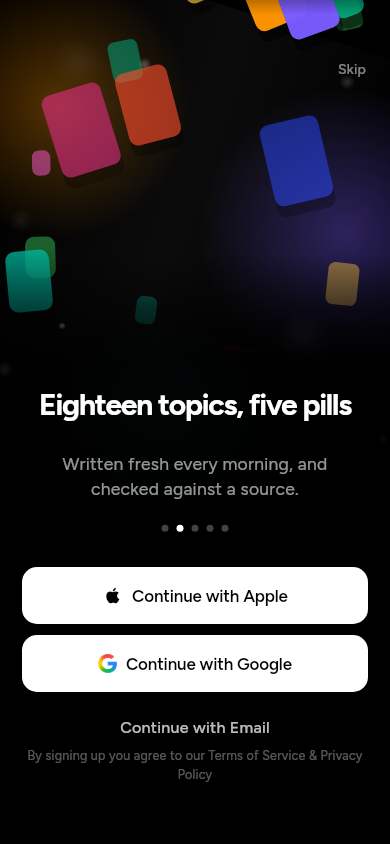
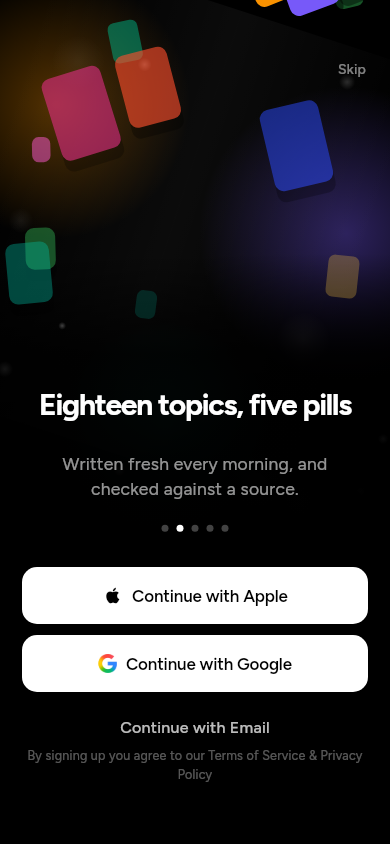
Intro: each falling card fades itself out before the foot of its box
On the phone the cards reached the line their box ends on at a third of
their colour and stopped dead on it, a row of straight edges where the
gradient mask over the box should have taken them to nothing. Whatever
the mask did on the phone, it is gone: each card now fades by where it
is, whole at ninety points above the foot of the box and gone at it, so
no card is ever on the line that clips it. The box reaches further above
the band too, so its top stays off the screen on the tallest phone.

The layout check finds the cards' box by its clip rather than its mask.

Claude-Session: https://claude.ai/code/session_018WEQYcXjm1L52zwKpmdTht

diff --git a/lib/screens/intro_screen.dart b/lib/screens/intro_screen.dart
@@ -901,15 +901,22 @@ class _PopState extends State<_Pop> with SingleTickerProviderStateMixin {
 /// Its box reaches [above] the band, to the top edge of the screen and past
 /// it: a card enters the picture from behind the status bar, whole, rather
 /// than appearing on the line the band starts on — which on a phone with
-/// a notch is a line drawn just under the clock.
+/// a notch is a line drawn just under the clock. At the foot of the box
+/// each card fades itself out before it gets there, so no card is ever cut
+/// on the line the box ends on. A gradient mask over the box did that job
+/// before, and on the phone it did not: the cards reached the line at a
+/// third of their colour and stopped dead on it.
 class _SceneRain extends StatelessWidget {
   const _SceneRain();
 
   /// How far above the band the box reaches, in the band's own units.
-  /// Deeper than a phone's status bar and the sky under it once scaled, so
-  /// the top of the box is off the screen.
-  static const double above = 100;
+  /// Deeper than a phone's status bar and the sky under it once scaled, on
+  /// the tallest phone, so the top of the box is off the screen.
+  static const double above = 130;
   static const double boxHeight = _SceneStage.bandHeight + above;
+
+  /// Over how much of the box's foot a card goes from whole to gone.
+  static const double fadeLength = 90;
 
   static const List<Color> _palette = [
     Color(0xFFFF2E9C),
@@ -935,61 +942,44 @@ class _SceneRain extends StatelessWidget {
         alignment: Alignment.bottomCenter,
         minHeight: boxHeight,
         maxHeight: boxHeight,
-        child: ShaderMask(
-          // Cards leave the picture by fading, not by meeting the bottom
-          // of their box: a row of cards ending on a straight line is the
-          // edge of a container, and there should not be one to see. At
-          // the top they fade in over the part of the box that is off the
-          // screen, so what is on it is whole.
-          blendMode: BlendMode.dstIn,
-          shaderCallback: (rect) => const LinearGradient(
-            begin: Alignment.topCenter,
-            end: Alignment.bottomCenter,
-            colors: [
-              Color(0x00FFFFFF),
-              Color(0xFFFFFFFF),
-              Color(0xFFFFFFFF),
-              Color(0x00FFFFFF),
-            ],
-            stops: [0, 50 / boxHeight, (above + 156) / boxHeight, 1],
-          ).createShader(rect),
-          child: ClipRect(
-            child: Stack(
-              children: [
-                Opacity(
-                  opacity: 0.5,
-                  child: Stack(
-                    children: [
-                      for (int i = 0; i < 10; i++)
-                        _FallingCard(
-                          left: 4 + seeded(i, 33.19) * 88,
-                          width: 16 + seeded(i, 45.11) * 12,
-                          height: 22 + seeded(i, 45.11) * 16,
-                          color: _palette[(i + 2) % _palette.length],
-                          turns: (seeded(i, 78.233) * 40 - 20) / 360,
-                          seconds: 10 + seeded(i, 21.7) * 6,
-                          offset: seeded(i, 9.13) * 14,
-                          opacity: 1,
-                          radius: 6,
-                        ),
-                    ],
-                  ),
+        // Clipped to the box: its top is off the screen, and no card
+        // reaches its foot while it can still be seen.
+        child: ClipRect(
+          child: Stack(
+            children: [
+              Opacity(
+                opacity: 0.5,
+                child: Stack(
+                  children: [
+                    for (int i = 0; i < 10; i++)
+                      _FallingCard(
+                        left: 4 + seeded(i, 33.19) * 88,
+                        width: 16 + seeded(i, 45.11) * 12,
+                        height: 22 + seeded(i, 45.11) * 16,
+                        color: _palette[(i + 2) % _palette.length],
+                        turns: (seeded(i, 78.233) * 40 - 20) / 360,
+                        seconds: 10 + seeded(i, 21.7) * 6,
+                        offset: seeded(i, 9.13) * 14,
+                        opacity: 1,
+                        radius: 6,
+                      ),
+                  ],
                 ),
-                for (int i = 0; i < 18; i++)
-                  _FallingCard(
-                    left: 2 + seeded(i, 12.9898) * 90,
-                    width: 26 + seeded(i, 45.11) * 30,
-                    height: 36 + seeded(i, 45.11) * 42,
-                    color: _palette[i % _palette.length],
-                    turns: (seeded(i, 78.233) * 46 - 23) / 360,
-                    seconds: 6.5 + seeded(i, 21.7) * 5,
-                    offset: seeded(i, 9.13) * 11,
-                    opacity: 0.5 + seeded(i, 33.7) * 0.5,
-                    radius: 8,
-                    shadow: true,
-                  ),
-              ],
-            ),
+              ),
+              for (int i = 0; i < 18; i++)
+                _FallingCard(
+                  left: 2 + seeded(i, 12.9898) * 90,
+                  width: 26 + seeded(i, 45.11) * 30,
+                  height: 36 + seeded(i, 45.11) * 42,
+                  color: _palette[i % _palette.length],
+                  turns: (seeded(i, 78.233) * 46 - 23) / 360,
+                  seconds: 6.5 + seeded(i, 21.7) * 5,
+                  offset: seeded(i, 9.13) * 11,
+                  opacity: 0.5 + seeded(i, 33.7) * 0.5,
+                  radius: 8,
+                  shadow: true,
+                ),
+            ],
           ),
         ),
       ),
@@ -1084,15 +1074,22 @@ class _FallingCardState extends State<_FallingCard>
               animation: _c,
               builder: (context, child) {
                 final double t = _c.value;
-                final double fade = t < 0.1
-                    ? t / 0.1
-                    : t > 0.82
-                    ? 1 - (t - 0.82) / 0.18
-                    : 1;
+                final double y = -170 + (_SceneRain.boxHeight + 210) * t;
+                // Gone before its foot reaches the foot of the box, which
+                // is where the clip is: a card cut on a straight line is
+                // the edge of a container. The foot allows for the turn.
+                final double foot =
+                    y +
+                    widget.height +
+                    widget.width * math.sin(widget.turns.abs() * 2 * math.pi);
+                final double leaving =
+                    ((_SceneRain.boxHeight - foot) / _SceneRain.fadeLength)
+                        .clamp(0.0, 1.0);
+                final double arriving = t < 0.1 ? t / 0.1 : 1.0;
                 return Transform.translate(
-                  offset: Offset(0, -170 + (_SceneRain.boxHeight + 210) * t),
+                  offset: Offset(0, y),
                   child: Opacity(
-                    opacity: (widget.opacity * fade).clamp(0, 1),
+                    opacity: (widget.opacity * arriving * leaving).clamp(0, 1),
                     child: child,
                   ),
                 );

diff --git a/test/widget_test.dart b/test/widget_test.dart
@@ -4110,7 +4110,7 @@ void main() {
           // comes in whole from behind the status bar rather than
           // appearing, cut, on the line the band starts on.
           final Rect box = tester.getRect(
-            find.descendant(of: stage, matching: find.byType(ShaderMask)),
+            find.descendant(of: stage, matching: find.byType(ClipRect)),
           );
           expect(box.top, lessThan(0));
           expect(box.bottom, closeTo(band.bottom, 0.5));
